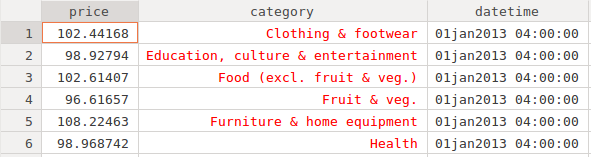
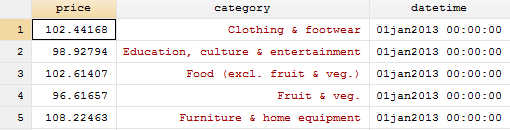
added Windows screenshots timestamps edited descriptions of prices and complete resultset added

diff --git a/integration/stata/README.md b/integration/stata/README.md
@@ -93,6 +93,10 @@ Preview `prices`:
 
 ![](resources/prices_preview.png)
 
+`prices` dataset description:
+
+![](resources/prices_desc.png)
+
 ### Load and Save Datetimes
 
 ```
@@ -183,6 +187,10 @@ Preview the dataset:
 ![](resources/entity_preview.png)
 
 ### Insert Data into ATSD
+
+Resultset description:
+
+![](resources/resultset_desc.png)
 
 #### datetime as NUMBER
 
